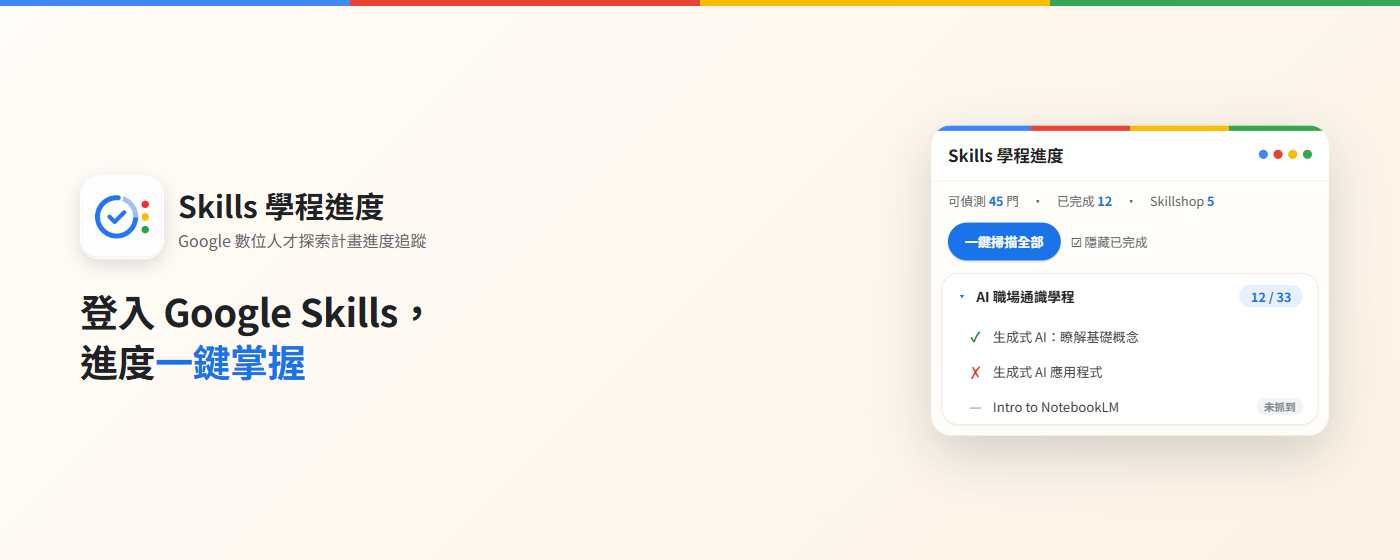
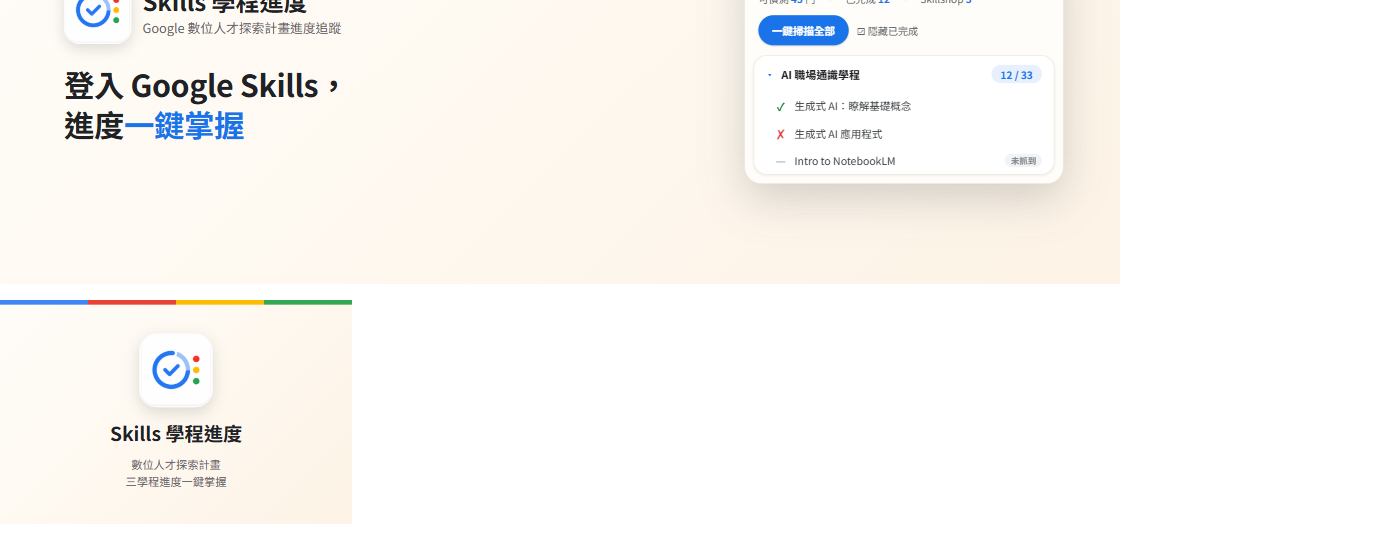
商店截圖：功能圖示改用 SVG 線條圖（取代 emoji）
- 掃描＝循環箭頭、顯示＝打勾、隱藏＝漏斗篩選
- Google 藍配淺藍底，移除 ⚡ ✓ ◎ emoji
- 重新產出 screenshot-1280x800.png

VISUAL-OK（已用 Playwright 截圖驗證）

diff --git a/store-assets/templates/assets.html b/store-assets/templates/assets.html
@@ -94,9 +94,9 @@
     <div class="right">
       <div class="kicker"><span class="kbar"></span>Google 數位人才探索計畫</div>
       <h1>三個學程的進度<br>一眼看完</h1>
-      <div class="feat"><span class="fi">⚡</span>一鍵掃描全部，自動抓完成狀態</div>
-      <div class="feat"><span class="fi">✓</span>分學程顯示「已完成 / 還缺哪幾門」</div>
-      <div class="feat"><span class="fi">◎</span>隱藏已完成，只專注還沒做的課</div>
+      <div class="feat"><span class="fi"><svg width="16" height="16" viewBox="0 0 24 24" fill="none" stroke="#1a73e8" stroke-width="2.4" stroke-linecap="round" stroke-linejoin="round"><path d="M21 12a9 9 0 1 1-2.64-6.36"/><path d="M21 4v5h-5"/></svg></span>一鍵掃描全部，自動抓完成狀態</div>
+      <div class="feat"><span class="fi"><svg width="16" height="16" viewBox="0 0 24 24" fill="none" stroke="#1a73e8" stroke-width="2.6" stroke-linecap="round" stroke-linejoin="round"><path d="M5 13l4 4L19 7"/></svg></span>分學程顯示「已完成 / 還缺哪幾門」</div>
+      <div class="feat"><span class="fi"><svg width="16" height="16" viewBox="0 0 24 24" fill="#1a73e8"><path d="M3 5h18l-7 8.5V20l-4 1.5v-8L3 5z"/></svg></span>隱藏已完成，只專注還沒做的課</div>
     </div>
   </div>
 